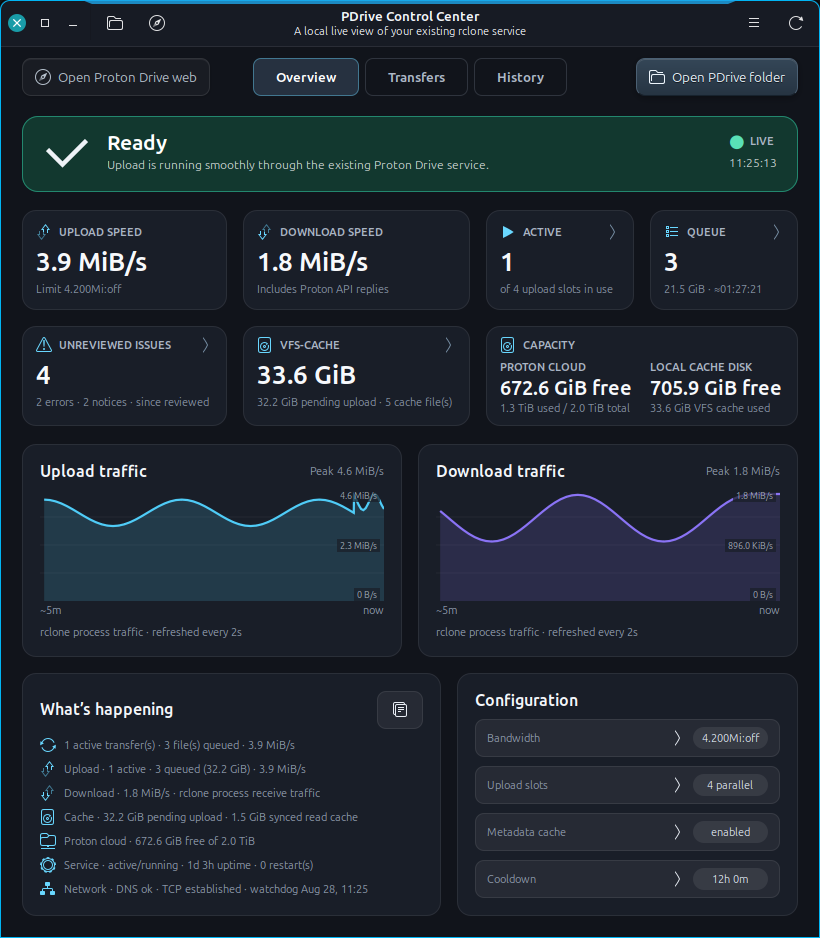
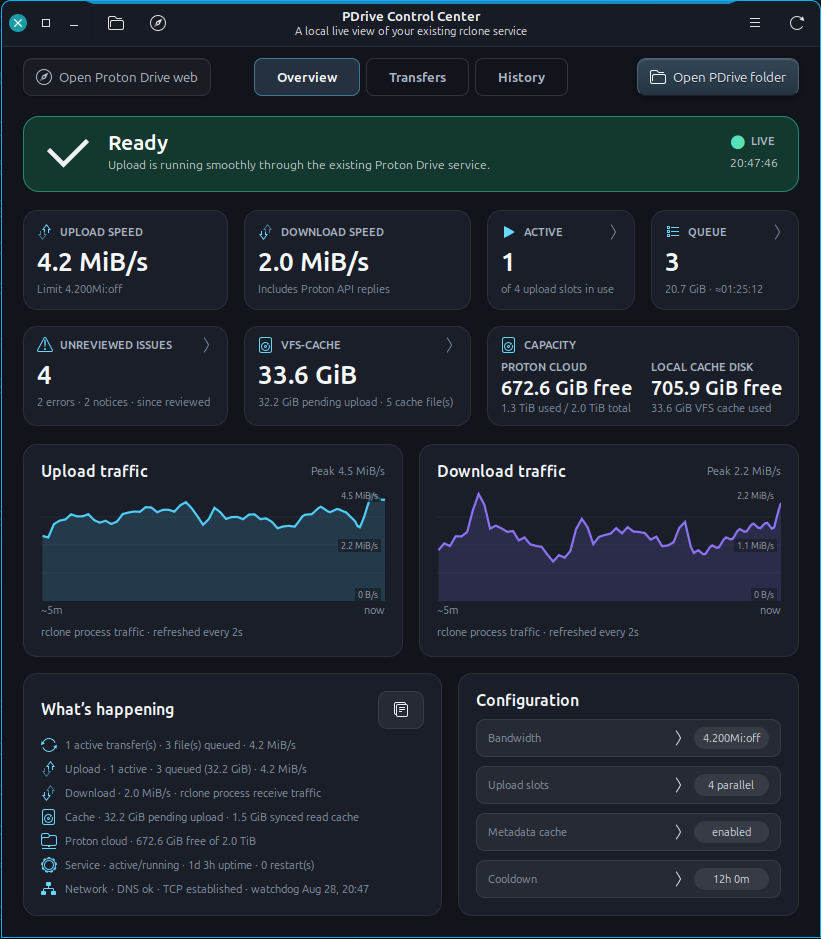
Consolidate cooldown controls for 0.7.2

diff --git a/docs/OPERATIONS.md b/docs/OPERATIONS.md
@@ -399,16 +399,16 @@ format, CLI equivalent and refusal conditions:
 
 #### One-shot actions
 
-| Action                     | Protection and result                                                                                                 |
-| -------------------------- | --------------------------------------------------------------------------------------------------------------------- |
-| Header **Refresh**         | Re-reads local state immediately and refreshes Proton capacity; it changes no configuration.                          |
-| **Reset restart cooldown** | Clears only the current automatic-restart cooldown through `pdrive-watch --clear-cooldown`.                           |
-| **Refresh metadata**       | Checks uploads, queue and Dirty cache first, then requires terminal confirmation before a controlled restart.         |
-| **Safely restart service** | Warns that an active upload would be interrupted, requires terminal confirmation and validates the new PID and mount. |
-| **Mark issues reviewed**   | Advances only the local issue watermark; it does not delete logs, history or unresolved health evidence.              |
-| **Open Proton Drive web**  | Opens the official web client for account-wide settings; it makes no local PDrive change.                             |
-| **Open PDrive folder**     | Opens `/pdrive` in the file manager; reads and writes then follow normal mounted-filesystem semantics.                |
-| **Reauthorize account**    | Runs one isolated login from a native dialog and replaces the encrypted configuration only after Proton accepts it.   |
+| Action                                        | Protection and result                                                                                                             |
+| --------------------------------------------- | --------------------------------------------------------------------------------------------------------------------------------- |
+| Header **Refresh**                            | Re-reads local state immediately and refreshes Proton capacity; it changes no configuration.                                      |
+| **Restart cooldown → Reset restart cooldown** | Clears only the current automatic-restart cooldown through `pdrive-watch --clear-cooldown`; the configured duration is unchanged. |
+| **Refresh metadata**                          | Checks uploads, queue and Dirty cache first, then requires terminal confirmation before a controlled restart.                     |
+| **Safely restart service**                    | Warns that an active upload would be interrupted, requires terminal confirmation and validates the new PID and mount.             |
+| **Mark issues reviewed**                      | Advances only the local issue watermark; it does not delete logs, history or unresolved health evidence.                          |
+| **Open Proton Drive web**                     | Opens the official web client for account-wide settings; it makes no local PDrive change.                                         |
+| **Open PDrive folder**                        | Opens `/pdrive` in the file manager; reads and writes then follow normal mounted-filesystem semantics.                            |
+| **Reauthorize account**                       | Runs one isolated login from a native dialog and replaces the encrypted configuration only after Proton accepts it.               |
 
 Metadata refresh and service restart deliberately finish their final safety
 checks in a terminal so the user sees the exact queue state and confirmation

diff --git a/README.md b/README.md
@@ -22,8 +22,8 @@
 </p>
 
 <p align="center">
-  <img src="docs/assets/pdrive-control-center.png" width="100%"
-       alt="PDrive Control Center showing service health, fixed five-minute traffic graphs and storage capacity">
+  <img src="docs/assets/pdrive-control-center.png?v=0.7.2" width="100%"
+       alt="PDrive Control Center showing service health, realistic five-minute traffic graphs and storage capacity">
 </p>
 
 <p align="center"><sub>Proton Drive at a glance, framed by <a href="https://github.com/oss-singularity/cinnamon-active-window-highlight">Active Window Highlight</a>.</sub></p>
@@ -40,7 +40,7 @@
 </table>
 
 <p align="center">
-  <img src="docs/assets/pdrive-control-menu.png" width="282"
+  <img src="docs/assets/pdrive-control-menu.png?v=0.7.2" width="282"
        alt="Complete PDrive Control Center menu with transfer, cache, recovery, account and documentation actions">
 </p>
 
